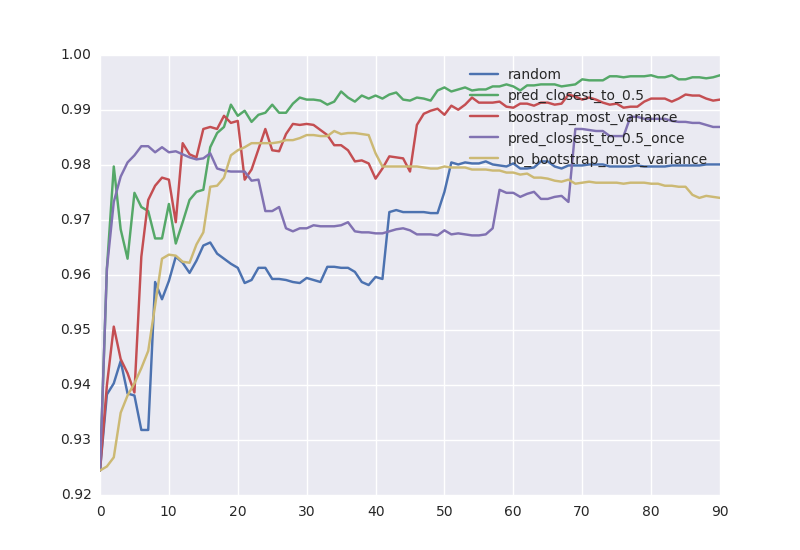
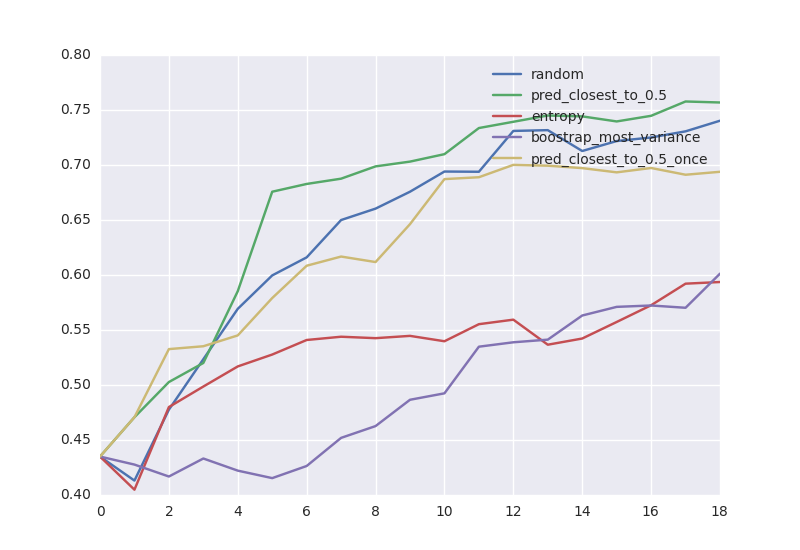
add viz.py

diff --git a/pal/viz.py b/pal/viz.py
@@ -1,0 +1,111 @@
+import contextlib
+
+import numpy as np
+import pandas as pd
+import pylab
+try:
+    # TODO maybe remove?
+    # optionally use seaborn if available
+    import seaborn
+except ImportError:
+    pass
+
+
+@contextlib.contextmanager
+def plot_to(filename=None):
+    yield
+    if filename is None:
+        pylab.show()
+    else:
+        pylab.savefig(filename)
+    pylab.clf()
+
+
+def plot_objective_values(states, labels, title=None):
+    """
+    plot objective values over time for multiple states
+    """
+    upper_bound = max([state.get("objective_upper_bound", -np.inf)
+                       for state in states])
+    series = [pd.Series(state["objective_values"], index=state["num_labeled"])
+              for state in states]
+    df = pd.DataFrame.from_items([(label, s)
+                                  for label, s in zip(labels, series)])
+    df.plot(title=title)
+    pylab.xlabel("labeled data points")
+    pylab.ylabel("objective value")
+    if not np.isinf(upper_bound):
+        pylab.axhline(upper_bound)
+    return df
+
+
+def _plot_labeled_unlabeled_score_distibution(labeled, unlabeled):
+    """
+    rationale: scores should be a proxy for how much information a new sample
+    will give, thus the distribution of scores for the labeled examples
+    should be lower than that of the unlabeled examples (else the algorithm
+    will choose points similar to those already labeled, which might be
+    suboptimal)
+    """
+    pylab.hist(labeled,
+               alpha=0.5,
+               color="red",
+               normed=True,
+               label=["labeled"])
+    pylab.hist(unlabeled,
+               alpha=0.5,
+               color="blue",
+               normed=True,
+               label=["unlabeled"])
+    pylab.legend()
+
+
+def plot_labeled_unlabeled_score_distibutions(state):
+    labeled = state["labeled_scores"]
+    unlabeled = state["unlabeled_scores"]
+    pylab.subplot(211)
+    _plot_labeled_unlabeled_score_distibution(labeled[0],
+                                              unlabeled[0])
+    pylab.title("Initial/final distribution")
+    pylab.subplot(212)
+    _plot_labeled_unlabeled_score_distibution(labeled[-1],
+                                              unlabeled[-1])
+
+
+def animate_labeled_unlabeled_score_distibutions(state, filename=None):
+    obj = state["objective_values"]
+    labeled = state["labeled_scores"]
+    unlabeled = state["unlabeled_scores"]
+    all_mins = min(ys.min()
+                   for xs in [labeled, unlabeled]
+                   for ys in xs)
+    all_maxs = max(ys.max()
+                   for xs in [labeled, unlabeled]
+                   for ys in xs)
+
+    def animate(nframe):
+        pylab.clf()
+        pylab.subplot(211)
+        pylab.xlim(all_mins, all_maxs)
+        _plot_labeled_unlabeled_score_distibution(labeled[nframe],
+                                                  unlabeled[nframe])
+        pylab.title('Label %d' % nframe)
+        pylab.subplot(212)
+        pylab.plot(obj[:nframe + 1])
+
+    fig = pylab.figure()
+    from matplotlib import animation
+    anim = animation.FuncAnimation(fig,
+                                   animate,
+                                   frames=len(labeled),
+                                   # 100ms per frame
+                                   interval=100,
+                                   repeat=True,
+                                   blit=True,
+                                   # 1 second (doesn't seem to work)
+                                   repeat_delay=1000)
+    if filename is not None:
+        anim.save(filename, writer='imagemagick')
+    else:
+        pylab.show()
+    pylab.clf()

diff --git a/examples/mnist_multiclass.py b/examples/mnist_multiclass.py
@@ -17,12 +17,9 @@ if __name__ == "__main__":
     test_size = 0.5
     objective_fn = pal.ml_utils.accuracy_2d
 
-    X, y = pal.data.binary_mnist(class0=1, class1=7)
-    # X, y = pal.data.multiclass_mnist(range(10))
+    X, y = pal.data.multiclass_mnist(range(10))
 
     rng = np.random.RandomState(seed)
-    # bernoulli noise
-    y = ((rng.rand(*y.shape) < 0.1) ^ y)
     y += 0.0
 
     if model == "lr":
@@ -46,10 +43,9 @@ if __name__ == "__main__":
     strategies = [
         ("random",
          pal.strategy.Random(rng)),
-        # same as entropy for binary classification
-        # ("pred_closest_to_0.5",
-        #  pal.strategy.PredictionClosestToValue(0.5,
-        #                                        predict_fn)),
+        ("pred_closest_to_0.5",
+         pal.strategy.PredictionClosestToValue(0.5,
+                                               predict_fn)),
         ("entropy",
          pal.strategy.Entropy(predict_fn)),
         ("boostrap_most_variance",
@@ -87,13 +83,13 @@ if __name__ == "__main__":
                                                    predict_fn,
                                                    objective_fn)
 
-    with pal.viz.plot_to("mnist_obj.png"):
+    with pal.viz.plot_to("mnist_multiclass_obj.png"):
         pal.viz.plot_objective_values(states, labels)
 
     for label, state in zip(labels, states):
         # show initial and final states
-        with pal.viz.plot_to("mnist_distribution_%s.png" % label):
+        with pal.viz.plot_to("mnist_multiclass_distribution_%s.png" % label):
             pal.viz.plot_labeled_unlabeled_score_distibutions(state)
         # create a gif as well
         pal.viz.animate_labeled_unlabeled_score_distibutions(
-            state, "mnist_distribution_%s.gif" % label)
+            state, "mnist_multiclass_distribution_%s.gif" % label)

diff --git a/pal/analysis.py b/pal/analysis.py
@@ -68,6 +68,7 @@ def simulate_indices(state,
     idx_labeling_order = [labeled_idxs]
     labeling_scores = []
     labeled_idxs_history = [labeled_idxs]
+    num_labeled = [num_initial_samples]
     while len(labeled_idxs) < num_final_samples:
         labeling_score = score_fn(X_train[labeled_idxs],
                                   y_train[labeled_idxs],
@@ -85,7 +86,9 @@ def simulate_indices(state,
         labeling_scores.append(labeling_score)
         idx_labeling_order.append(next_idxs)
         labeled_idxs_history.append(labeled_idxs)
+        num_labeled.append(len(labeled_idxs))
     return dict(
+        num_labeled=num_labeled,
         labeling_scores=labeling_scores,
         idx_labeling_order=idx_labeling_order,
         labeled_idxs_history=labeled_idxs_history,
@@ -125,4 +128,25 @@ def calculate_indices_objectives(state, predict_fn, objective_fn):
     return dict(
         objective_values=objs,
         ** state
+    )
+
+
+def labeled_and_unlabeled_scores(state):
+    y_train = state["y_train"]
+    labeled_idxs_history = state["labeled_idxs_history"]
+    labeling_scores = state["labeling_scores"]
+
+    num_points = len(y_train)
+    all_points = set(range(num_points))
+    labeled_scores = []
+    unlabeled_scores = []
+    assert len(labeled_idxs_history) - 1 == len(labeling_scores)
+    for labeled_idxs, score in zip(labeled_idxs_history[1:], labeling_scores):
+        unlabeled_idxs = list(all_points - set(labeled_idxs))
+        labeled_scores.append(score[labeled_idxs])
+        unlabeled_scores.append(score[unlabeled_idxs])
+    return dict(
+        labeled_scores=labeled_scores,
+        unlabeled_scores=unlabeled_scores,
+        **state
     )

diff --git a/pal/strategy.py b/pal/strategy.py
@@ -236,6 +236,9 @@ class Entropy(ScoreFunction):
     score points based on their entropy
 
     assumes classification task and score function returns probabilities
+
+    should be the same as prioritizing the probability that is closest to 0.5
+    for binary classification
     """
 
     def __init__(self, predict_fn):

diff --git a/pal/data.py b/pal/data.py
@@ -40,4 +40,4 @@ def multiclass_mnist(classes):
 
 def binary_mnist(class0, class1):
     X, y = multiclass_mnist([class0, class1])
-    return X, y[:, [1]]
+    return X, y

diff --git a/pal/__init__.py b/pal/__init__.py
@@ -1,5 +1,5 @@
 import analysis
 import data
 import ml_utils
-import simulate
 import strategy
+import viz
